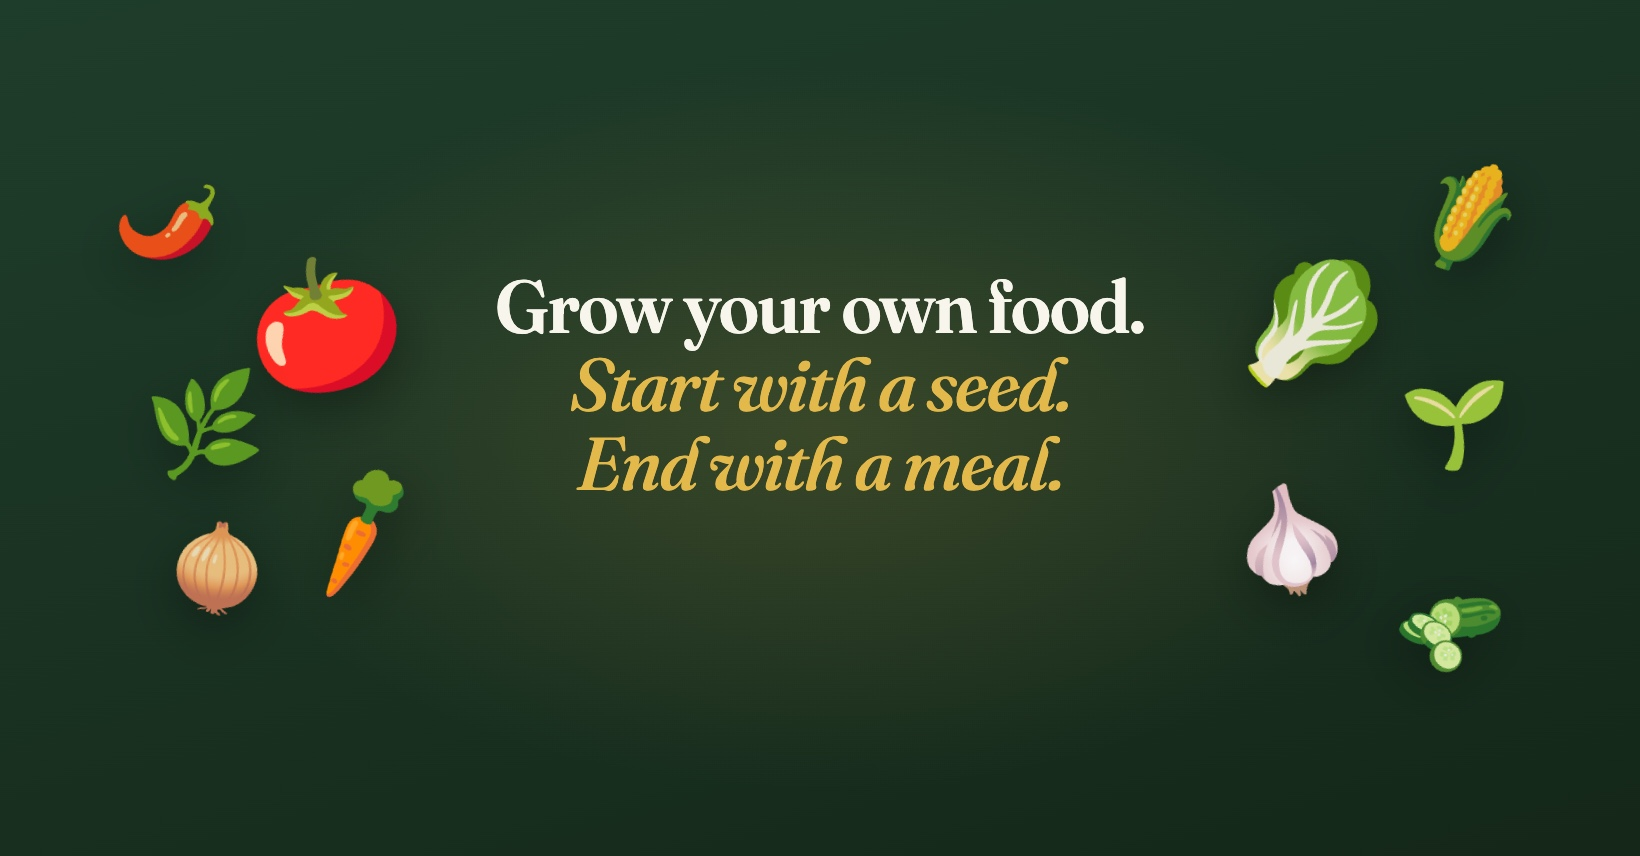
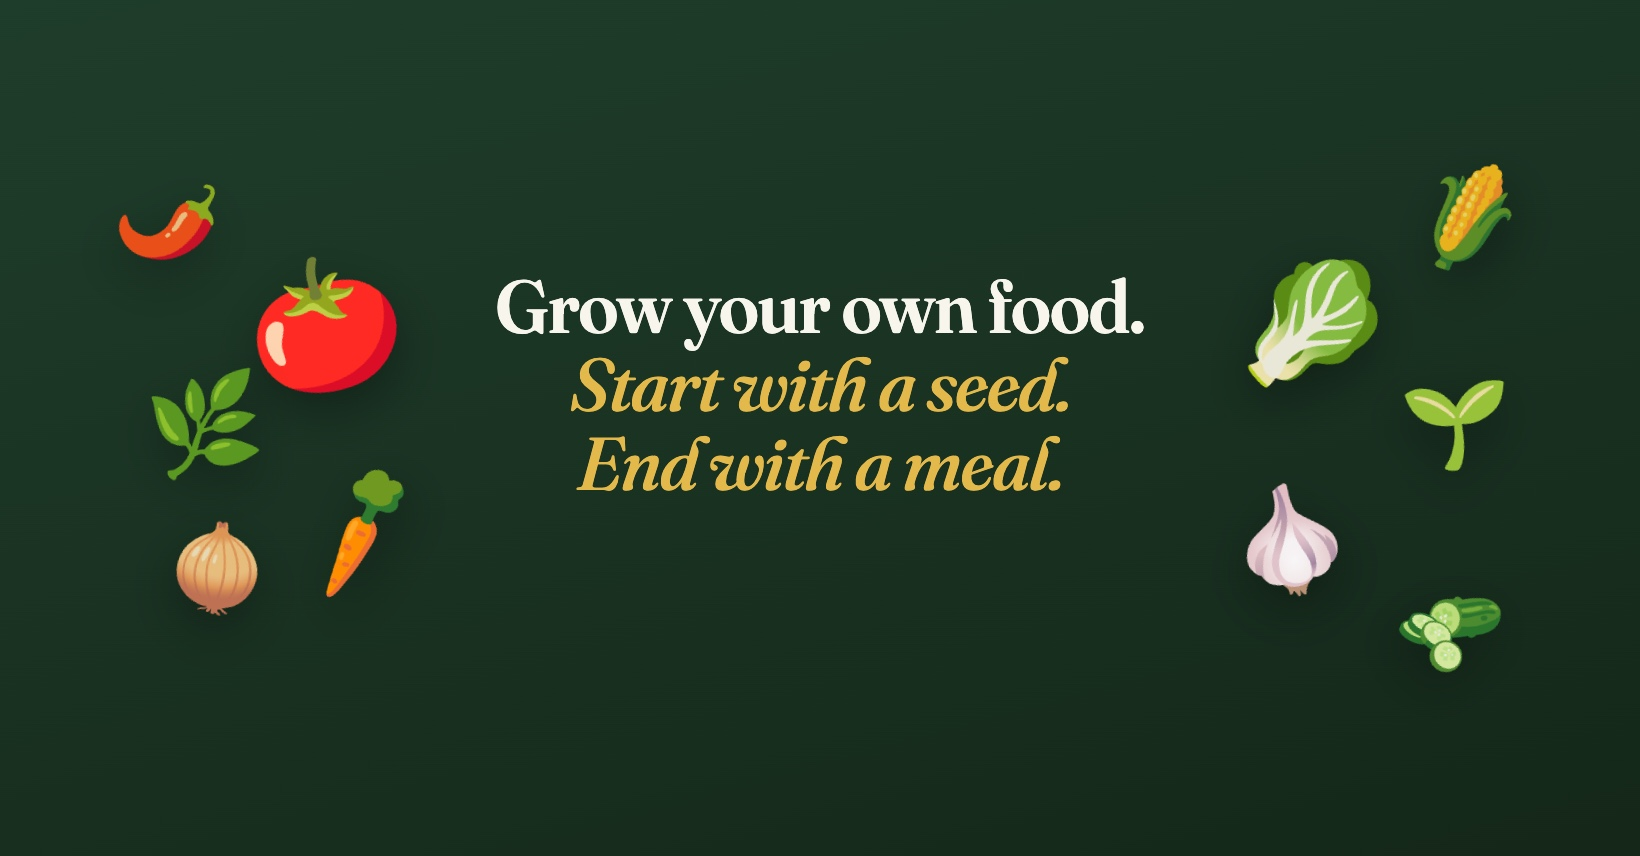
Facebook cover: remove glow behind the headline

Changed region(s): [[0.3732, 0.3645, 0.622, 0.6379]]

diff --git a/marketing/facebook/cover-source.html b/marketing/facebook/cover-source.html
@@ -3,7 +3,7 @@
 <style>
 html,body{margin:0;width:1640px;height:856px;overflow:hidden}
 body{position:relative;
- background:radial-gradient(ellipse 900px 520px at 50% 50%,rgba(227,185,76,0.16),transparent 70%),linear-gradient(165deg,#1F3D2B 0%,#142719 100%)}
+ background:linear-gradient(165deg,#1F3D2B 0%,#142719 100%)}
 .text{position:absolute;left:0;right:0;top:268px;display:flex;justify-content:center}
 h1{font-family:'Fraunces',serif;font-weight:600;font-size:74px;line-height:1.06;color:#F7F5EC;margin:0;letter-spacing:-1.5px;text-align:center;max-width:860px}
 h1 em{font-style:italic;font-weight:500;color:#E3B94C}
